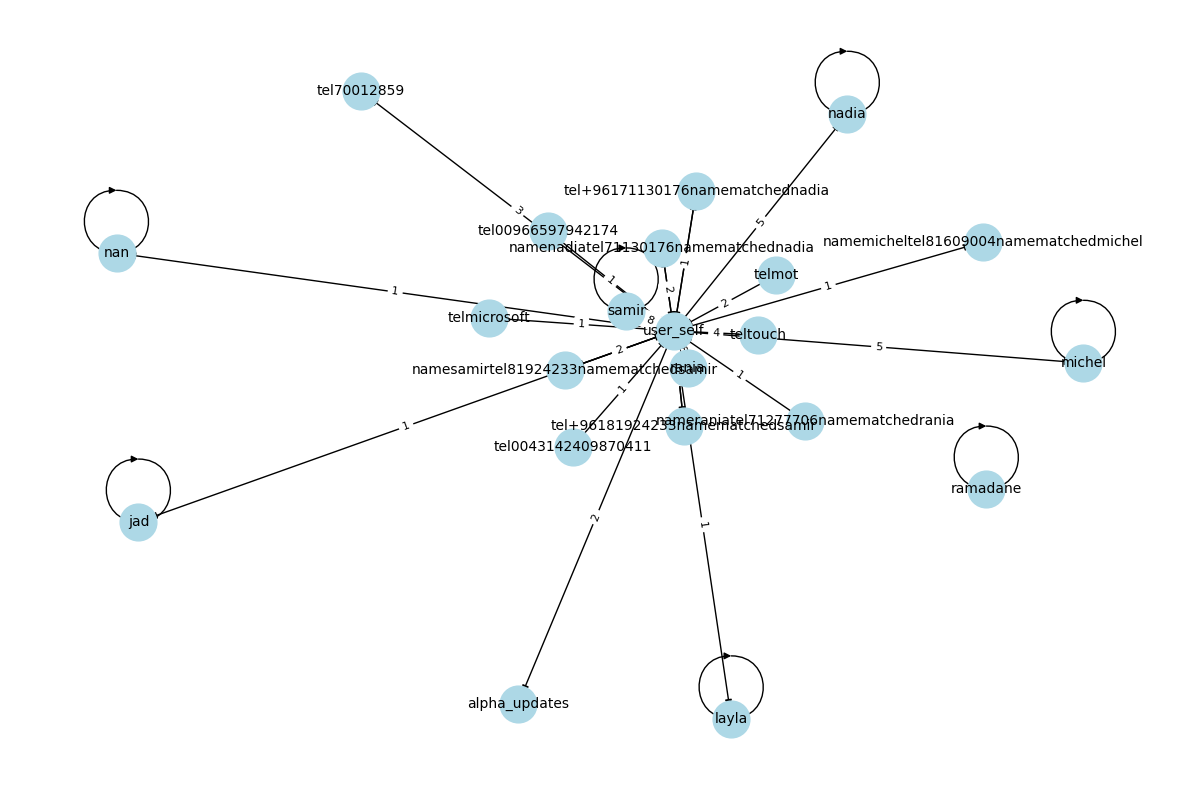
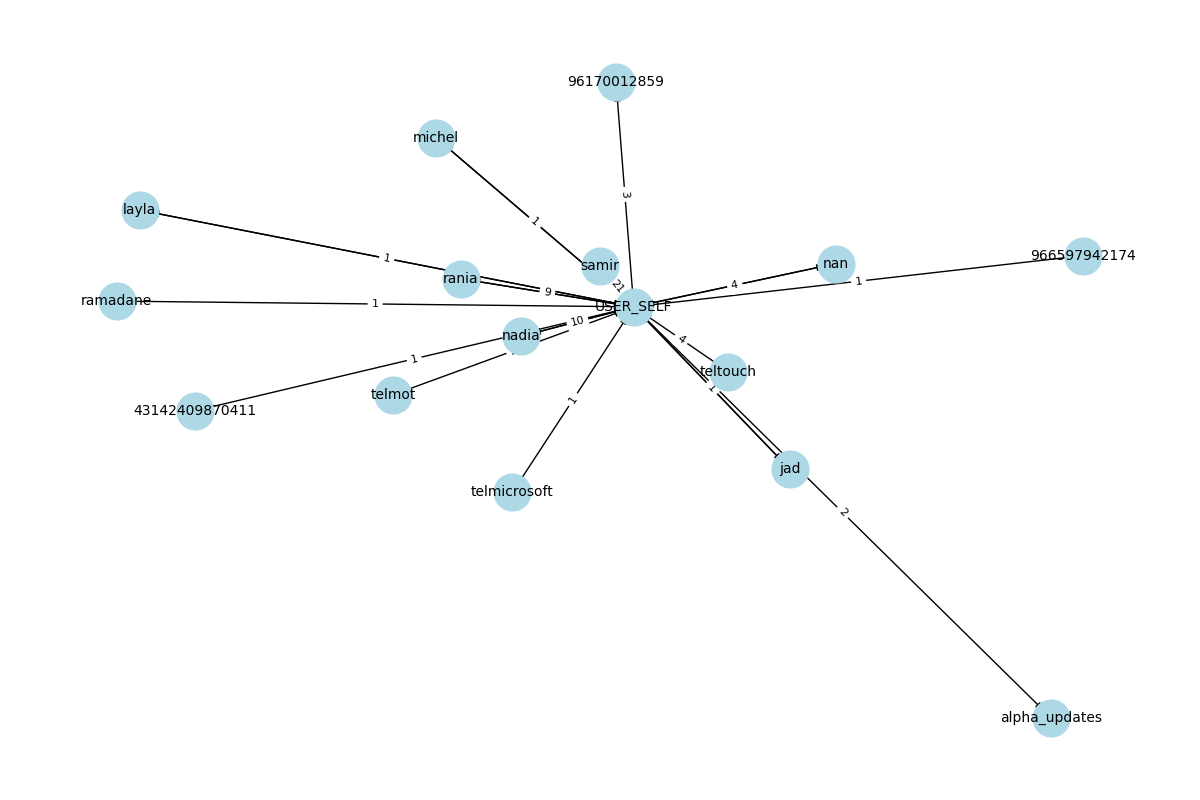
edited graph

diff --git a/Phase3-Graph_Construction/constructor.py b/Phase3-Graph_Construction/constructor.py
@@ -25,8 +25,8 @@ df = pd.read_csv(INPUT_FILE)
 G = nx.DiGraph()
 
 for _, row in df.iterrows():
-    src = row['sender_resolved']
-    dst = row['receiver_resolved']
+    src = row['sender']
+    dst = row['receiver']
     timestamp = row['timestamp']
     msg = row['message']
     label = f"{timestamp}: {msg}"[:100]  # short label
